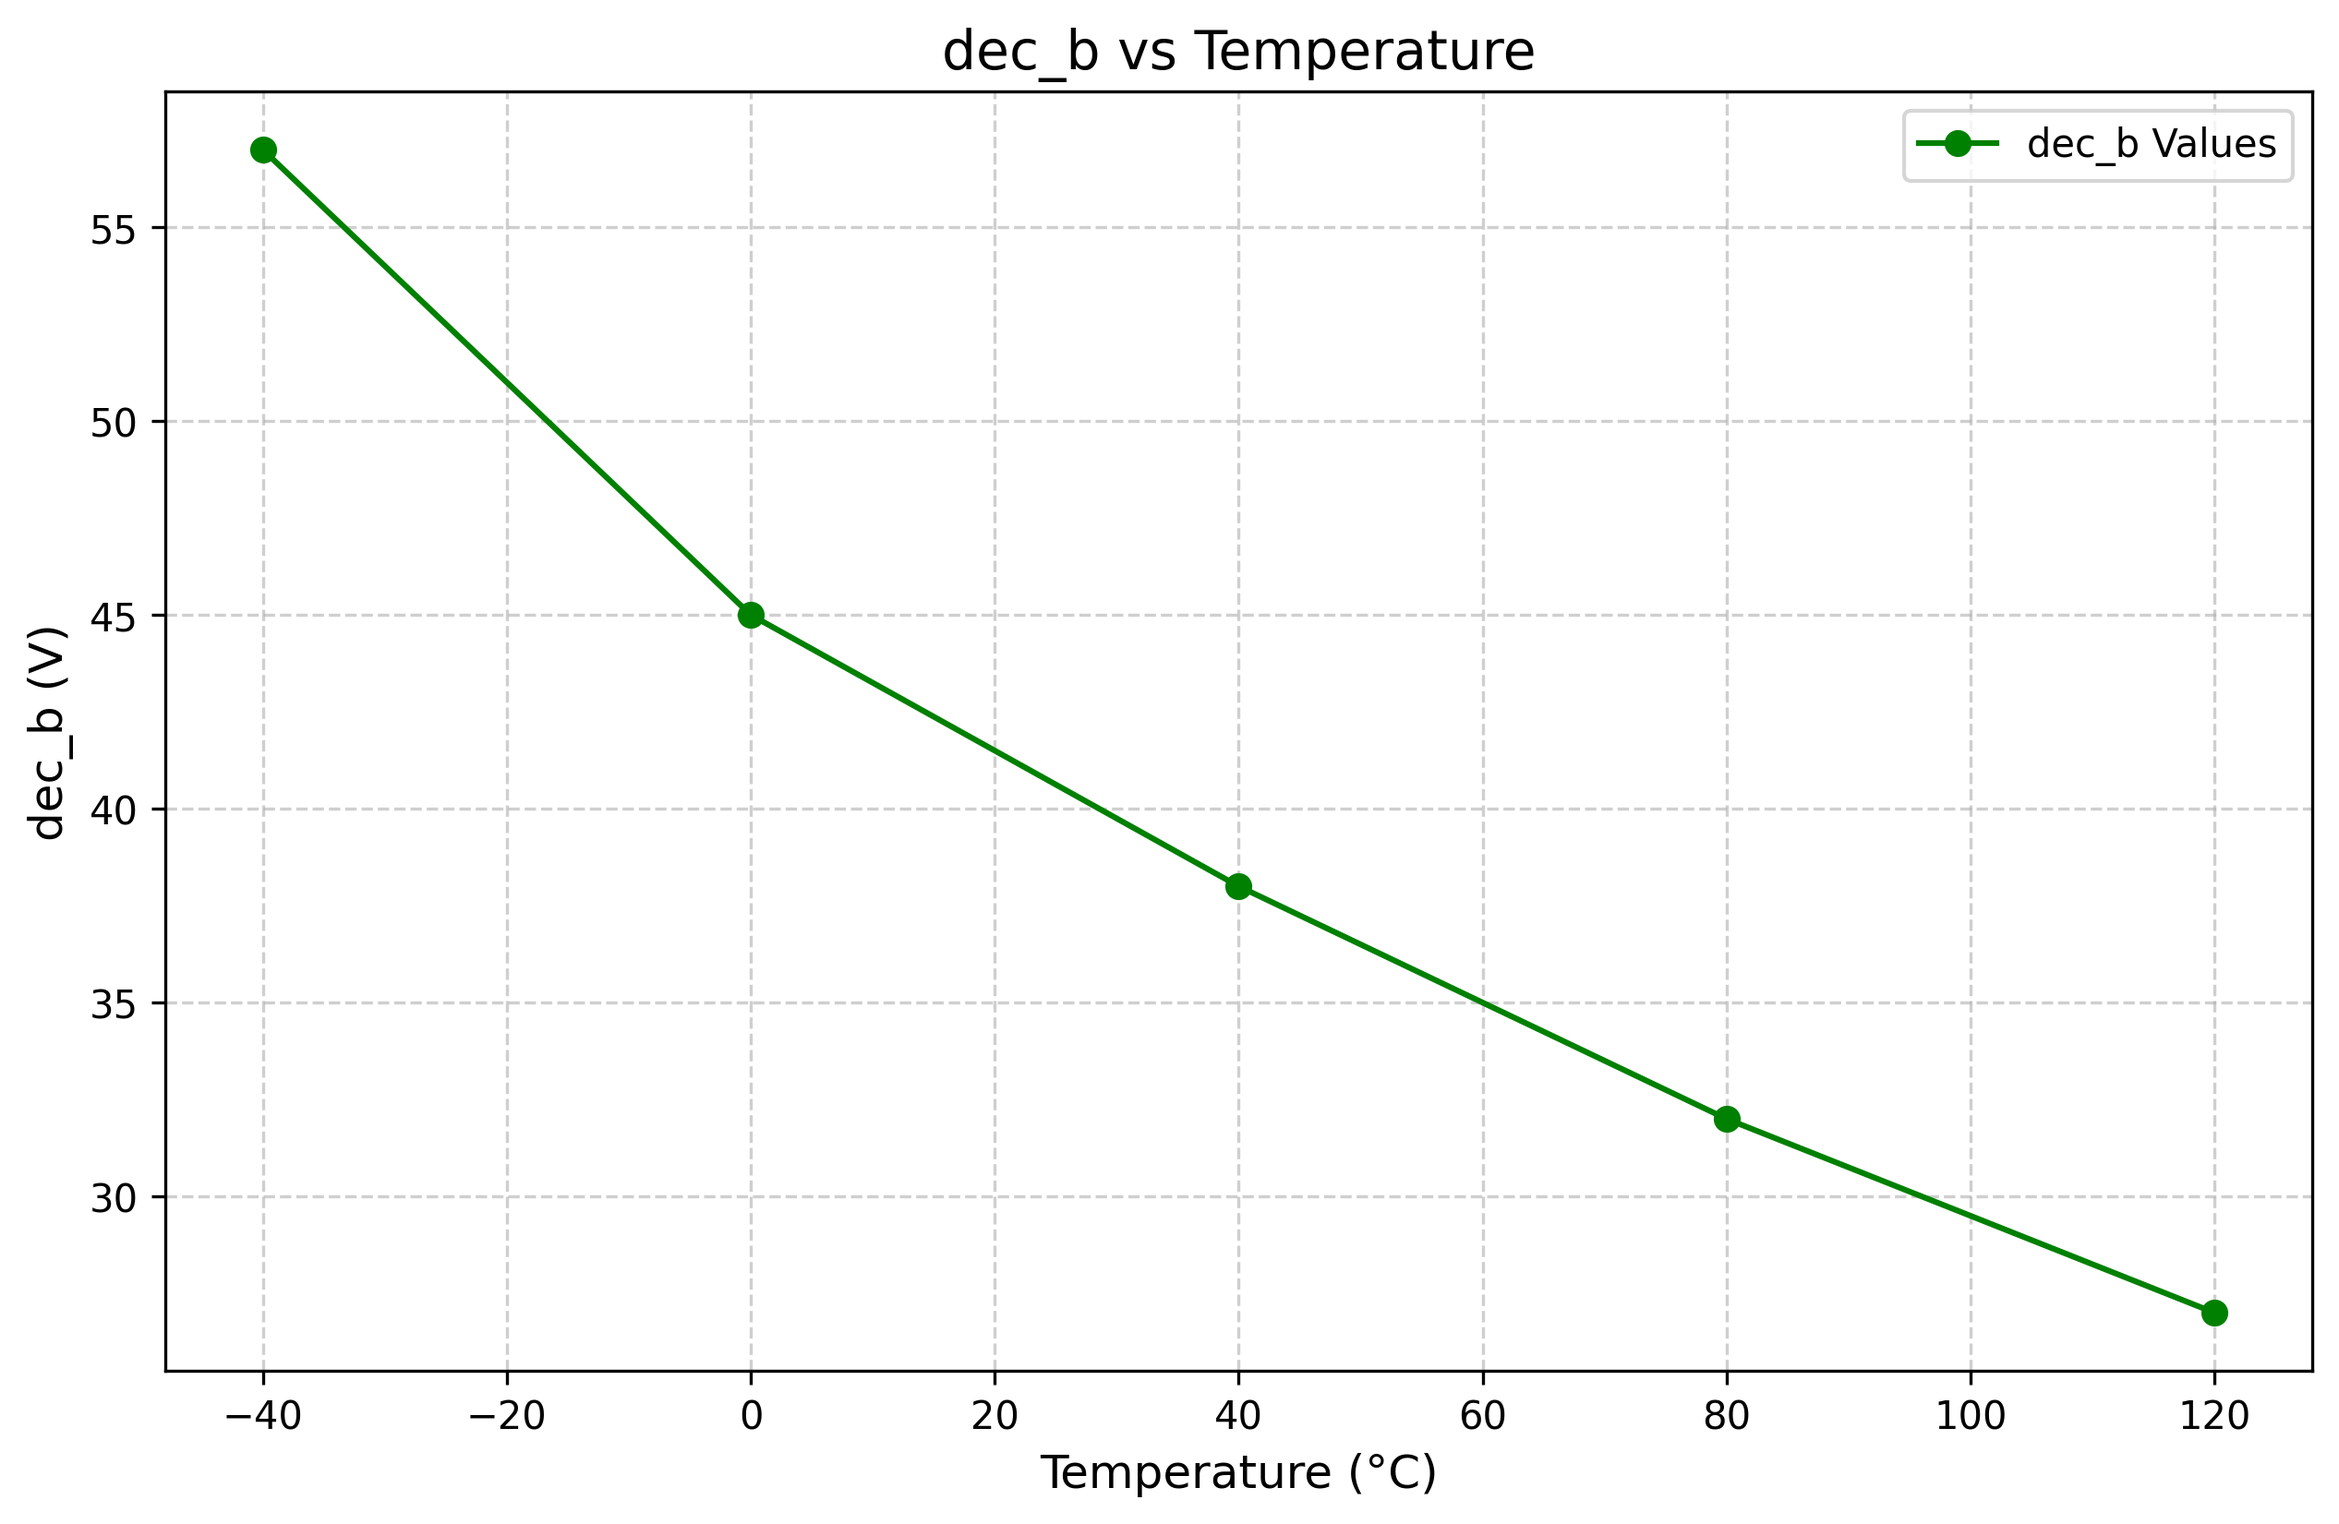
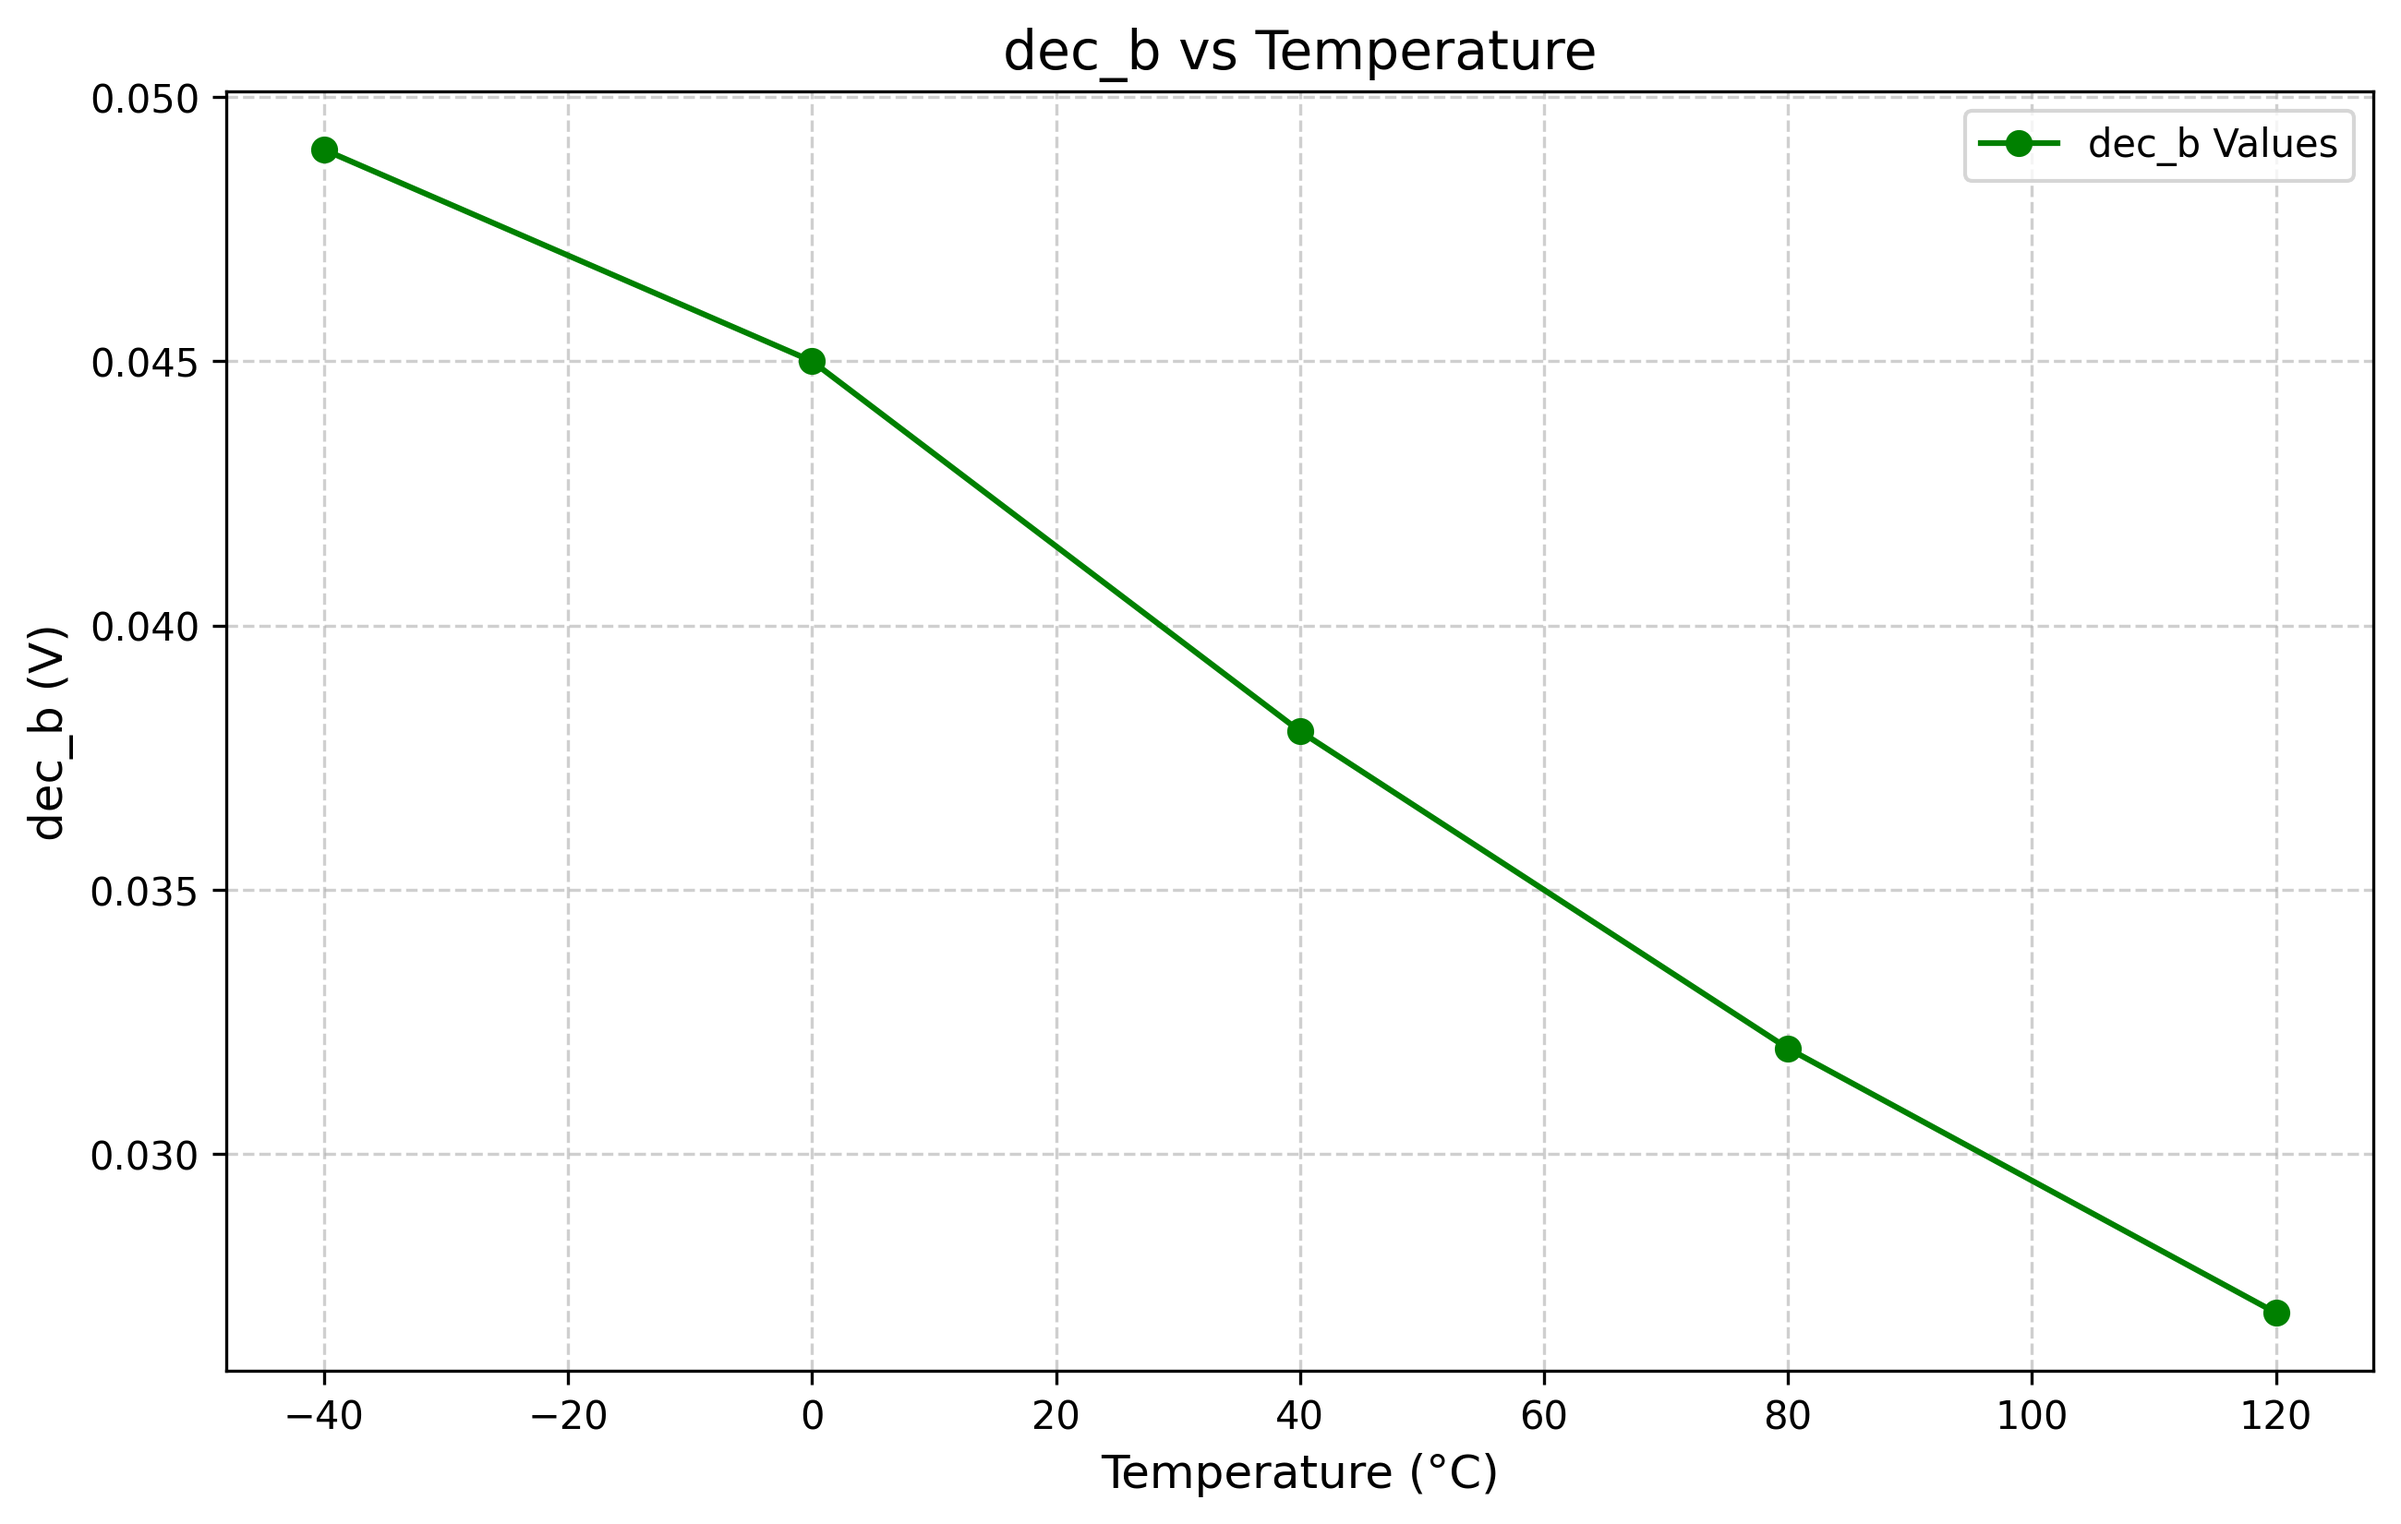
Push before main

diff --git a/sim/Comparator/results/tran_Sch_typical.html b/sim/Comparator/results/tran_Sch_typical.html
@@ -61,111 +61,111 @@ table tfoot .links a{
 <body>
     <style type="text/css">
 </style>
-<table id="T_3a2b1">
+<table id="T_1a372">
   <thead>
     <tr>
       <th class="blank level0" >&nbsp;</th>
-      <th id="T_3a2b1_level0_col0" class="col_heading level0 col0" >dec_b_-40</th>
-      <th id="T_3a2b1_level0_col1" class="col_heading level0 col1" >dec_b_0</th>
-      <th id="T_3a2b1_level0_col2" class="col_heading level0 col2" >dec_b_40</th>
-      <th id="T_3a2b1_level0_col3" class="col_heading level0 col3" >dec_b_80</th>
-      <th id="T_3a2b1_level0_col4" class="col_heading level0 col4" >dec_b_120</th>
+      <th id="T_1a372_level0_col0" class="col_heading level0 col0" >dec_b_-40</th>
+      <th id="T_1a372_level0_col1" class="col_heading level0 col1" >dec_b_0</th>
+      <th id="T_1a372_level0_col2" class="col_heading level0 col2" >dec_b_40</th>
+      <th id="T_1a372_level0_col3" class="col_heading level0 col3" >dec_b_80</th>
+      <th id="T_1a372_level0_col4" class="col_heading level0 col4" >dec_b_120</th>
     </tr>
   </thead>
   <tbody>
     <tr>
-      <th id="T_3a2b1_level0_row0" class="row_heading level0 row0" >count</th>
-      <td id="T_3a2b1_row0_col0" class="data row0 col0" >1.00000 V</td>
-      <td id="T_3a2b1_row0_col1" class="data row0 col1" >1.00000 V</td>
-      <td id="T_3a2b1_row0_col2" class="data row0 col2" >1.00000 V</td>
-      <td id="T_3a2b1_row0_col3" class="data row0 col3" >1.00000 V</td>
-      <td id="T_3a2b1_row0_col4" class="data row0 col4" >1.00000 V</td>
+      <th id="T_1a372_level0_row0" class="row_heading level0 row0" >count</th>
+      <td id="T_1a372_row0_col0" class="data row0 col0" >1.00000 V</td>
+      <td id="T_1a372_row0_col1" class="data row0 col1" >1.00000 V</td>
+      <td id="T_1a372_row0_col2" class="data row0 col2" >1.00000 V</td>
+      <td id="T_1a372_row0_col3" class="data row0 col3" >1.00000 V</td>
+      <td id="T_1a372_row0_col4" class="data row0 col4" >1.00000 V</td>
     </tr>
     <tr>
-      <th id="T_3a2b1_level0_row1" class="row_heading level0 row1" >mean</th>
-      <td id="T_3a2b1_row1_col0" class="data row1 col0" >57.00000 V</td>
-      <td id="T_3a2b1_row1_col1" class="data row1 col1" >45.00000 V</td>
-      <td id="T_3a2b1_row1_col2" class="data row1 col2" >38.00000 V</td>
-      <td id="T_3a2b1_row1_col3" class="data row1 col3" >32.00000 V</td>
-      <td id="T_3a2b1_row1_col4" class="data row1 col4" >27.00000 V</td>
+      <th id="T_1a372_level0_row1" class="row_heading level0 row1" >mean</th>
+      <td id="T_1a372_row1_col0" class="data row1 col0" >0.04900 V</td>
+      <td id="T_1a372_row1_col1" class="data row1 col1" >0.04500 V</td>
+      <td id="T_1a372_row1_col2" class="data row1 col2" >0.03800 V</td>
+      <td id="T_1a372_row1_col3" class="data row1 col3" >0.03200 V</td>
+      <td id="T_1a372_row1_col4" class="data row1 col4" >0.02700 V</td>
     </tr>
     <tr>
-      <th id="T_3a2b1_level0_row2" class="row_heading level0 row2" >std</th>
-      <td id="T_3a2b1_row2_col0" class="data row2 col0" >nan V</td>
-      <td id="T_3a2b1_row2_col1" class="data row2 col1" >nan V</td>
-      <td id="T_3a2b1_row2_col2" class="data row2 col2" >nan V</td>
-      <td id="T_3a2b1_row2_col3" class="data row2 col3" >nan V</td>
-      <td id="T_3a2b1_row2_col4" class="data row2 col4" >nan V</td>
+      <th id="T_1a372_level0_row2" class="row_heading level0 row2" >std</th>
+      <td id="T_1a372_row2_col0" class="data row2 col0" >nan V</td>
+      <td id="T_1a372_row2_col1" class="data row2 col1" >nan V</td>
+      <td id="T_1a372_row2_col2" class="data row2 col2" >nan V</td>
+      <td id="T_1a372_row2_col3" class="data row2 col3" >nan V</td>
+      <td id="T_1a372_row2_col4" class="data row2 col4" >nan V</td>
     </tr>
     <tr>
-      <th id="T_3a2b1_level0_row3" class="row_heading level0 row3" >min</th>
-      <td id="T_3a2b1_row3_col0" class="data row3 col0" >57.00000 V</td>
-      <td id="T_3a2b1_row3_col1" class="data row3 col1" >45.00000 V</td>
-      <td id="T_3a2b1_row3_col2" class="data row3 col2" >38.00000 V</td>
-      <td id="T_3a2b1_row3_col3" class="data row3 col3" >32.00000 V</td>
-      <td id="T_3a2b1_row3_col4" class="data row3 col4" >27.00000 V</td>
+      <th id="T_1a372_level0_row3" class="row_heading level0 row3" >min</th>
+      <td id="T_1a372_row3_col0" class="data row3 col0" >0.04900 V</td>
+      <td id="T_1a372_row3_col1" class="data row3 col1" >0.04500 V</td>
+      <td id="T_1a372_row3_col2" class="data row3 col2" >0.03800 V</td>
+      <td id="T_1a372_row3_col3" class="data row3 col3" >0.03200 V</td>
+      <td id="T_1a372_row3_col4" class="data row3 col4" >0.02700 V</td>
     </tr>
     <tr>
-      <th id="T_3a2b1_level0_row4" class="row_heading level0 row4" >25%</th>
-      <td id="T_3a2b1_row4_col0" class="data row4 col0" >57.00000 V</td>
-      <td id="T_3a2b1_row4_col1" class="data row4 col1" >45.00000 V</td>
-      <td id="T_3a2b1_row4_col2" class="data row4 col2" >38.00000 V</td>
-      <td id="T_3a2b1_row4_col3" class="data row4 col3" >32.00000 V</td>
-      <td id="T_3a2b1_row4_col4" class="data row4 col4" >27.00000 V</td>
+      <th id="T_1a372_level0_row4" class="row_heading level0 row4" >25%</th>
+      <td id="T_1a372_row4_col0" class="data row4 col0" >0.04900 V</td>
+      <td id="T_1a372_row4_col1" class="data row4 col1" >0.04500 V</td>
+      <td id="T_1a372_row4_col2" class="data row4 col2" >0.03800 V</td>
+      <td id="T_1a372_row4_col3" class="data row4 col3" >0.03200 V</td>
+      <td id="T_1a372_row4_col4" class="data row4 col4" >0.02700 V</td>
     </tr>
     <tr>
-      <th id="T_3a2b1_level0_row5" class="row_heading level0 row5" >50%</th>
-      <td id="T_3a2b1_row5_col0" class="data row5 col0" >57.00000 V</td>
-      <td id="T_3a2b1_row5_col1" class="data row5 col1" >45.00000 V</td>
-      <td id="T_3a2b1_row5_col2" class="data row5 col2" >38.00000 V</td>
-      <td id="T_3a2b1_row5_col3" class="data row5 col3" >32.00000 V</td>
-      <td id="T_3a2b1_row5_col4" class="data row5 col4" >27.00000 V</td>
+      <th id="T_1a372_level0_row5" class="row_heading level0 row5" >50%</th>
+      <td id="T_1a372_row5_col0" class="data row5 col0" >0.04900 V</td>
+      <td id="T_1a372_row5_col1" class="data row5 col1" >0.04500 V</td>
+      <td id="T_1a372_row5_col2" class="data row5 col2" >0.03800 V</td>
+      <td id="T_1a372_row5_col3" class="data row5 col3" >0.03200 V</td>
+      <td id="T_1a372_row5_col4" class="data row5 col4" >0.02700 V</td>
     </tr>
     <tr>
-      <th id="T_3a2b1_level0_row6" class="row_heading level0 row6" >75%</th>
-      <td id="T_3a2b1_row6_col0" class="data row6 col0" >57.00000 V</td>
-      <td id="T_3a2b1_row6_col1" class="data row6 col1" >45.00000 V</td>
-      <td id="T_3a2b1_row6_col2" class="data row6 col2" >38.00000 V</td>
-      <td id="T_3a2b1_row6_col3" class="data row6 col3" >32.00000 V</td>
-      <td id="T_3a2b1_row6_col4" class="data row6 col4" >27.00000 V</td>
+      <th id="T_1a372_level0_row6" class="row_heading level0 row6" >75%</th>
+      <td id="T_1a372_row6_col0" class="data row6 col0" >0.04900 V</td>
+      <td id="T_1a372_row6_col1" class="data row6 col1" >0.04500 V</td>
+      <td id="T_1a372_row6_col2" class="data row6 col2" >0.03800 V</td>
+      <td id="T_1a372_row6_col3" class="data row6 col3" >0.03200 V</td>
+      <td id="T_1a372_row6_col4" class="data row6 col4" >0.02700 V</td>
     </tr>
     <tr>
-      <th id="T_3a2b1_level0_row7" class="row_heading level0 row7" >max</th>
-      <td id="T_3a2b1_row7_col0" class="data row7 col0" >57.00000 V</td>
-      <td id="T_3a2b1_row7_col1" class="data row7 col1" >45.00000 V</td>
-      <td id="T_3a2b1_row7_col2" class="data row7 col2" >38.00000 V</td>
-      <td id="T_3a2b1_row7_col3" class="data row7 col3" >32.00000 V</td>
-      <td id="T_3a2b1_row7_col4" class="data row7 col4" >27.00000 V</td>
+      <th id="T_1a372_level0_row7" class="row_heading level0 row7" >max</th>
+      <td id="T_1a372_row7_col0" class="data row7 col0" >0.04900 V</td>
+      <td id="T_1a372_row7_col1" class="data row7 col1" >0.04500 V</td>
+      <td id="T_1a372_row7_col2" class="data row7 col2" >0.03800 V</td>
+      <td id="T_1a372_row7_col3" class="data row7 col3" >0.03200 V</td>
+      <td id="T_1a372_row7_col4" class="data row7 col4" >0.02700 V</td>
     </tr>
   </tbody>
 </table>
 <style type="text/css">
 </style>
-<table id="T_6c2b6">
+<table id="T_7d19a">
   <thead>
     <tr>
-      <th id="T_6c2b6_level0_col0" class="col_heading level0 col0" >dec_b_-40</th>
-      <th id="T_6c2b6_level0_col1" class="col_heading level0 col1" >dec_b_0</th>
-      <th id="T_6c2b6_level0_col2" class="col_heading level0 col2" >dec_b_40</th>
-      <th id="T_6c2b6_level0_col3" class="col_heading level0 col3" >dec_b_80</th>
-      <th id="T_6c2b6_level0_col4" class="col_heading level0 col4" >dec_b_120</th>
-      <th id="T_6c2b6_level0_col5" class="col_heading level0 col5" >name</th>
-      <th id="T_6c2b6_level0_col6" class="col_heading level0 col6" >type</th>
-      <th id="T_6c2b6_level0_col7" class="col_heading level0 col7" >time</th>
-      <th id="T_6c2b6_level0_col8" class="col_heading level0 col8" >OK</th>
+      <th id="T_7d19a_level0_col0" class="col_heading level0 col0" >dec_b_-40</th>
+      <th id="T_7d19a_level0_col1" class="col_heading level0 col1" >dec_b_0</th>
+      <th id="T_7d19a_level0_col2" class="col_heading level0 col2" >dec_b_40</th>
+      <th id="T_7d19a_level0_col3" class="col_heading level0 col3" >dec_b_80</th>
+      <th id="T_7d19a_level0_col4" class="col_heading level0 col4" >dec_b_120</th>
+      <th id="T_7d19a_level0_col5" class="col_heading level0 col5" >name</th>
+      <th id="T_7d19a_level0_col6" class="col_heading level0 col6" >type</th>
+      <th id="T_7d19a_level0_col7" class="col_heading level0 col7" >time</th>
+      <th id="T_7d19a_level0_col8" class="col_heading level0 col8" >OK</th>
     </tr>
   </thead>
   <tbody>
     <tr>
-      <td id="T_6c2b6_row0_col0" class="data row0 col0" >57.00000 V</td>
-      <td id="T_6c2b6_row0_col1" class="data row0 col1" >45.00000 V</td>
-      <td id="T_6c2b6_row0_col2" class="data row0 col2" >38.00000 V</td>
-      <td id="T_6c2b6_row0_col3" class="data row0 col3" >32.00000 V</td>
-      <td id="T_6c2b6_row0_col4" class="data row0 col4" >27.00000 V</td>
-      <td id="T_6c2b6_row0_col5" class="data row0 col5" >tran_SchGtKttTtVt</td>
-      <td id="T_6c2b6_row0_col6" class="data row0 col6" >Sch</td>
-      <td id="T_6c2b6_row0_col7" class="data row0 col7" >Thu Apr 10 14:03:59 2025</td>
-      <td id="T_6c2b6_row0_col8" class="data row0 col8" >True</td>
+      <td id="T_7d19a_row0_col0" class="data row0 col0" >0.04900 V</td>
+      <td id="T_7d19a_row0_col1" class="data row0 col1" >0.04500 V</td>
+      <td id="T_7d19a_row0_col2" class="data row0 col2" >0.03800 V</td>
+      <td id="T_7d19a_row0_col3" class="data row0 col3" >0.03200 V</td>
+      <td id="T_7d19a_row0_col4" class="data row0 col4" >0.02700 V</td>
+      <td id="T_7d19a_row0_col5" class="data row0 col5" >tran_SchGtKttTtVt</td>
+      <td id="T_7d19a_row0_col6" class="data row0 col6" >Sch</td>
+      <td id="T_7d19a_row0_col7" class="data row0 col7" >Thu Apr 10 16:32:38 2025</td>
+      <td id="T_7d19a_row0_col8" class="data row0 col8" >True</td>
     </tr>
   </tbody>
 </table>

diff --git a/sim/Comparator/results/tran_Sch_typical.md b/sim/Comparator/results/tran_Sch_typical.md
@@ -5,12 +5,12 @@ For details see <a href='tran_Sch_typical.html'>tran_Sch_typical.html</a>
 |**Name**|**Parameter**|**View**|**Min** | **Typ** | **Max**|
 |:---|:---|:---:|:---:|:---:|:---:|
 |dec_b voltage|dec\_b\_-40 | Spec |  |  |  |
-| | | ('Sch',)|57.00000 V | 57.00000 V | 57.00000 V |
+| | | ('Sch',)|0.04900 V | 0.04900 V | 0.04900 V |
 |dec_b voltage|dec\_b\_0 | Spec |  |  |  |
-| | | ('Sch',)|45.00000 V | 45.00000 V | 45.00000 V |
+| | | ('Sch',)|0.04500 V | 0.04500 V | 0.04500 V |
 |dec_b voltage|dec\_b\_40 | Spec |  |  |  |
-| | | ('Sch',)|38.00000 V | 38.00000 V | 38.00000 V |
+| | | ('Sch',)|0.03800 V | 0.03800 V | 0.03800 V |
 |dec_b voltage|dec\_b\_80 | Spec |  |  |  |
-| | | ('Sch',)|32.00000 V | 32.00000 V | 32.00000 V |
+| | | ('Sch',)|0.03200 V | 0.03200 V | 0.03200 V |
 |dec_b voltage|dec\_b\_120 | Spec |  |  |  |
-| | | ('Sch',)|27.00000 V | 27.00000 V | 27.00000 V |
+| | | ('Sch',)|0.02700 V | 0.02700 V | 0.02700 V |
